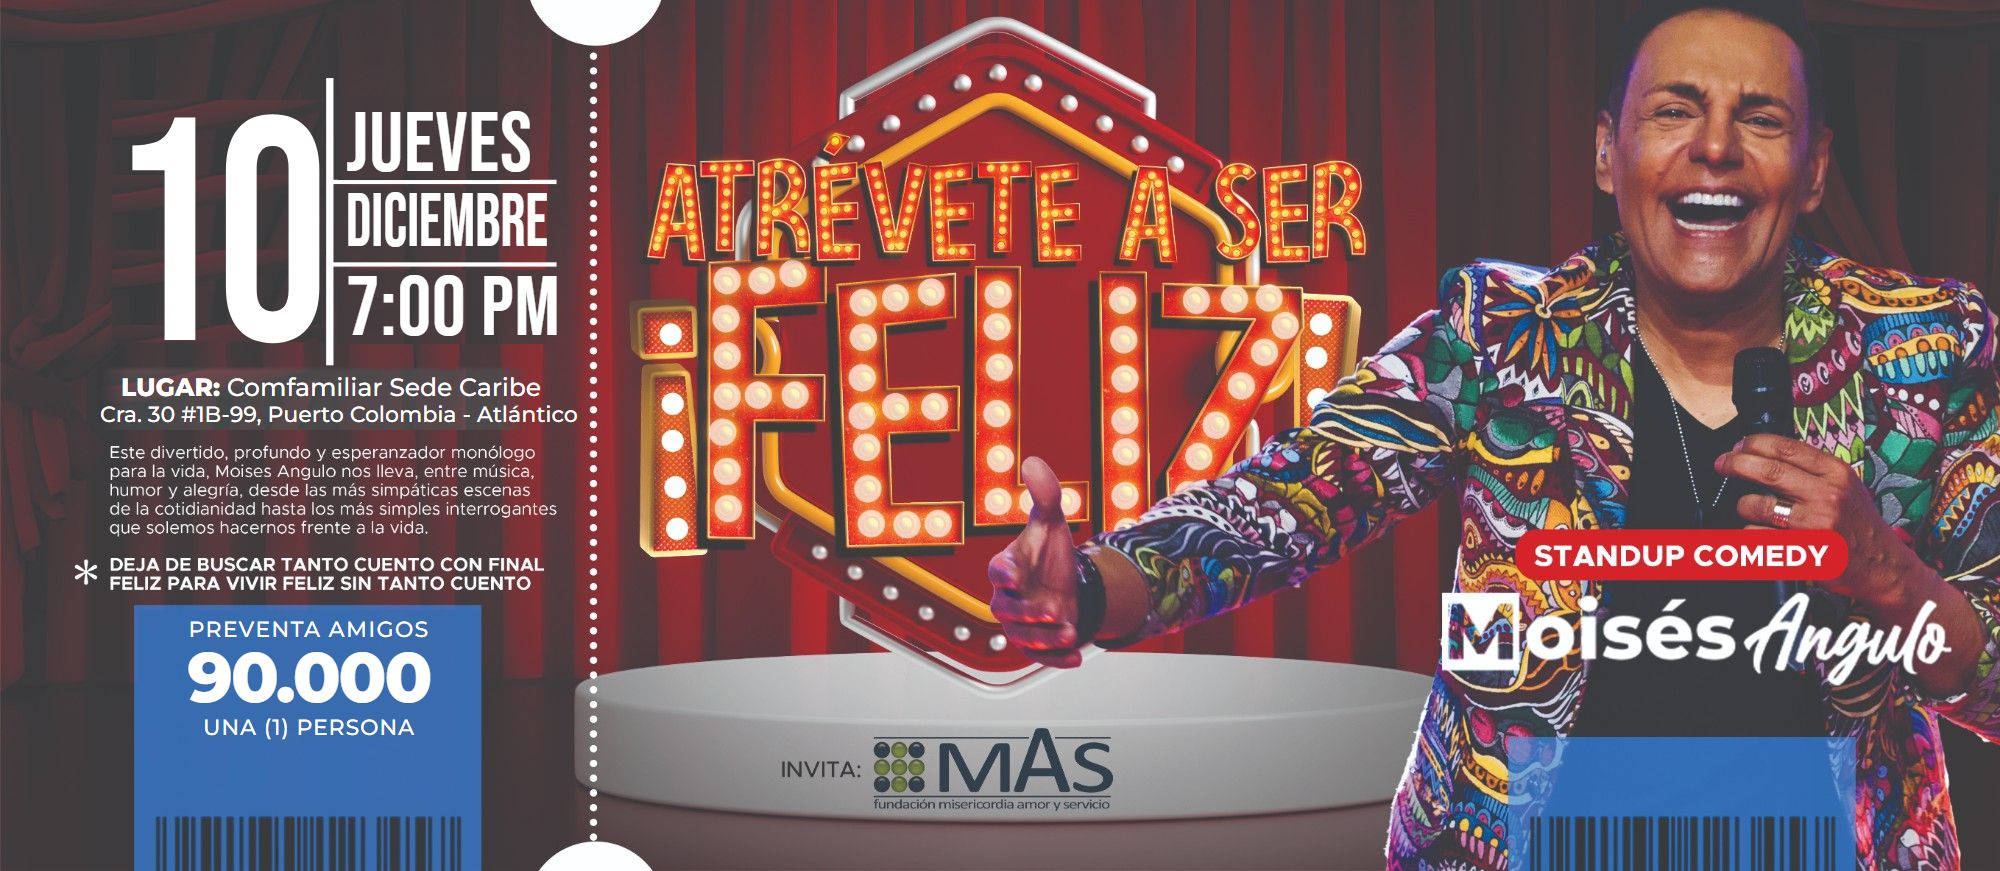
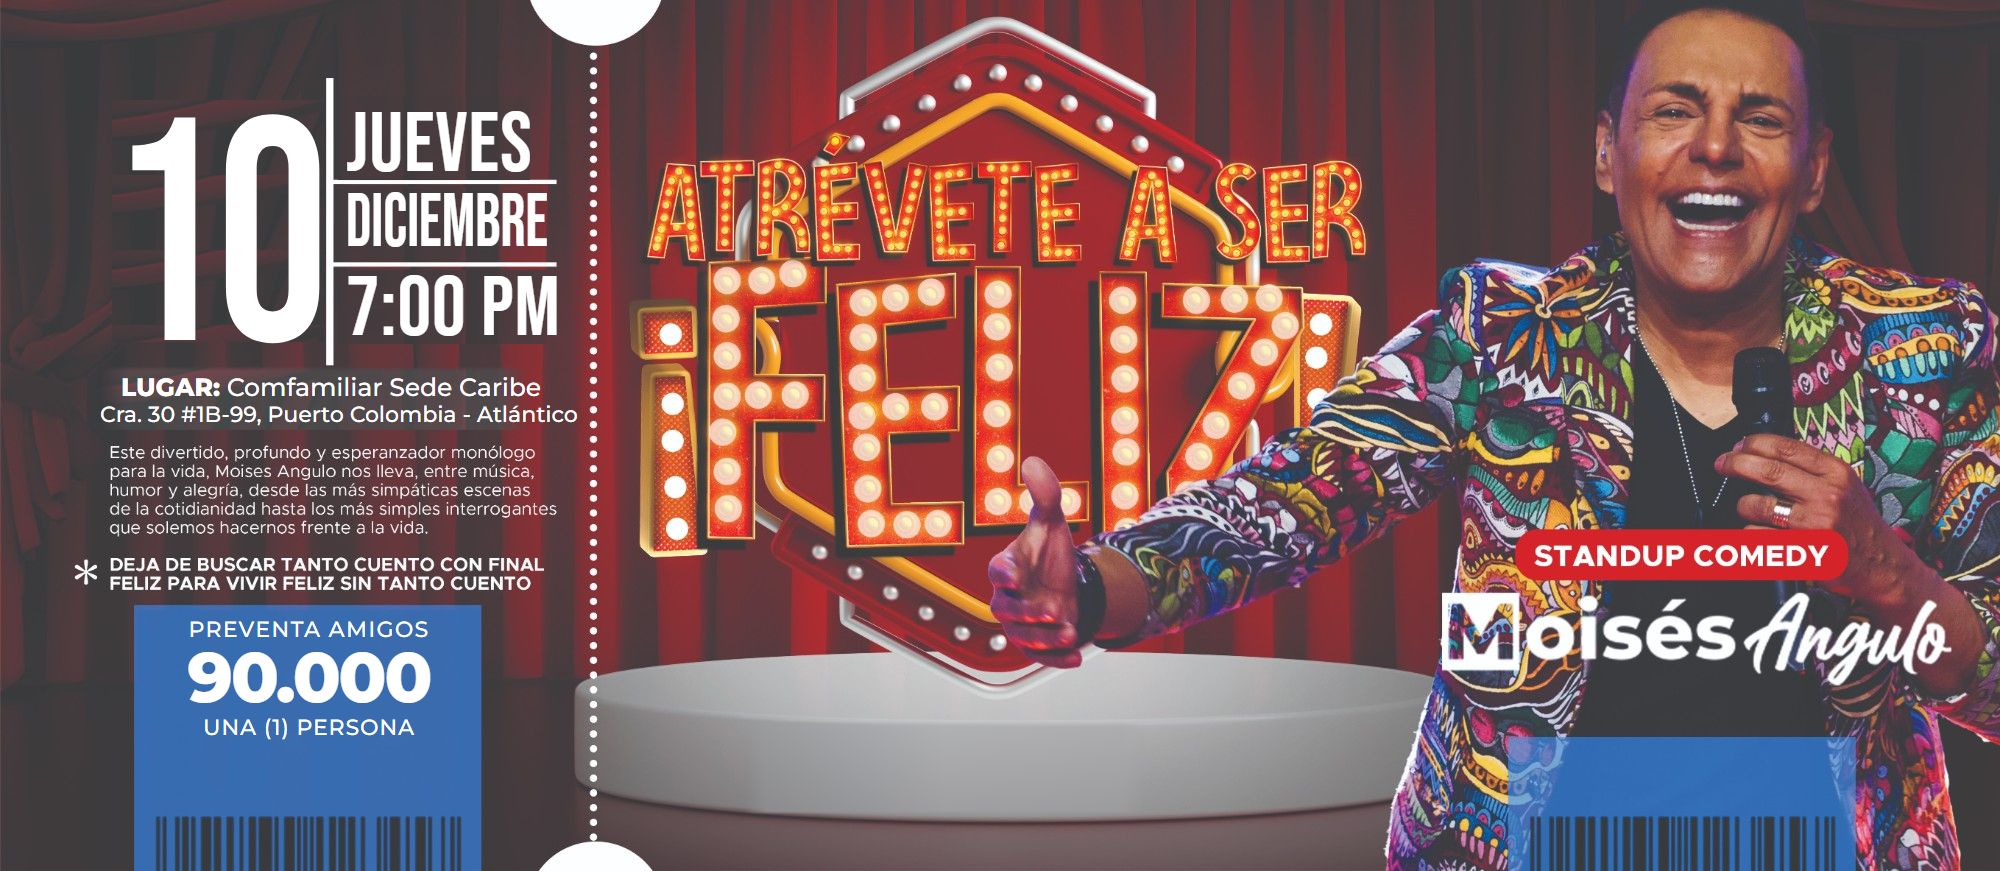
Atrévete: selector de boletas, sin patrocinador y QR en rojo

Changed region(s): [[0.372, 0.837, 0.558, 0.93]]

diff --git a/feliz/index.html b/feliz/index.html
@@ -78,6 +78,20 @@ h1 em{font-style:normal; color:var(--gold); text-shadow:0 0 18px rgba(246,179,58
 .price span small{display:block; font-weight:500; letter-spacing:.04em; opacity:.9}
 .price b{font-weight:800; font-size:32px; letter-spacing:-.02em; white-space:nowrap; font-variant-numeric:tabular-nums}
 .price b small{font-size:14px; font-weight:700}
+.qty{display:flex; justify-content:space-between; align-items:center; gap:14px; padding:0 0 14px}
+.qty-l{font-size:15px; font-weight:800; line-height:1.3}
+.qty-l small{display:block; font-size:12px; font-weight:500; color:var(--card-soft)}
+.stepper{display:flex; align-items:center; border:2px solid var(--card-ink); border-radius:999px; overflow:hidden; flex:none}
+.stepper button{width:48px; height:48px; border:0; background:transparent; color:var(--card-ink); font-size:26px; font-weight:700; cursor:pointer; line-height:1}
+.stepper button:hover{background:#f1e6da}
+.stepper button:disabled{opacity:.3; cursor:not-allowed}
+.stepper button:focus-visible{outline:3px solid var(--gold); outline-offset:-3px}
+.stepper output{min-width:44px; text-align:center; font-family:var(--display); font-size:32px; line-height:1; font-variant-numeric:tabular-nums}
+.total{display:flex; justify-content:space-between; align-items:baseline; margin:0 0 18px; padding:12px 0 0; border-top:2px dashed var(--line); font-size:14px; font-weight:700; text-transform:uppercase; letter-spacing:.06em}
+.total b{font-size:26px; letter-spacing:-.01em; font-variant-numeric:tabular-nums; text-transform:none}
+.lista{display:grid; gap:18px}
+.lista figure{margin:0}
+.lista .btn{margin-top:10px; min-height:50px; font-size:22px}
 .grid{display:grid; grid-template-columns:repeat(2,minmax(0,1fr)); gap:14px}
 .f{display:flex; flex-direction:column; gap:6px; min-width:0}
 .f.full{grid-column:1 / -1}
@@ -107,7 +121,7 @@ input[aria-invalid=true]{border-color:var(--red-hi); background:#fff5f4}
 .trap{position:absolute; left:-9999px; width:1px; height:1px; overflow:hidden}
 .ok{margin:0 0 16px; font-size:16px; line-height:1.45}
 .ok strong{font-weight:800}
-.ticket img{display:block; width:100%; height:auto; border-radius:6px; box-shadow:0 10px 30px -12px rgba(0,0,0,.6); background:#2f6ccf}
+.ticket img{display:block; width:100%; height:auto; border-radius:6px; box-shadow:0 10px 30px -12px rgba(0,0,0,.6); background:#c8161d}
 .ticket .hint{margin:10px 0 0; font-size:13px; color:var(--card-soft); text-align:center}
 
 footer{margin-top:clamp(36px,6vw,64px); padding-top:16px; border-top:1px solid rgba(255,255,255,.18); display:flex; flex-wrap:wrap; justify-content:space-between; gap:8px 20px; font-size:13px; color:var(--muted)}
@@ -139,7 +153,6 @@ footer{margin-top:clamp(36px,6vw,64px); padding-top:16px; border-top:1px solid r
       <ul class="facts">
         <li><span class="k">Horario</span><span class="v">Puertas: 6:00 p. m.<small>Función: 7:00 a 9:00 p. m.</small></span></li>
         <li><span class="k">Lugar</span><span class="v">Comfamiliar Sede Caribe<small>Cra. 30 #1B-99, al lado de la Clínica Porto Azul · Puerto Colombia, Atlántico</small></span></li>
-        <li><span class="k">Invita</span><span class="v">Fundación MAS<small>Misericordia, amor y servicio</small></span></li>
       </ul>
     </section>
 
@@ -151,9 +164,18 @@ footer{margin-top:clamp(36px,6vw,64px); padding-top:16px; border-top:1px solid r
     <aside class="buy" id="registro" aria-live="polite">
       <div id="form-view">
         <h2>Compra tu entrada</h2>
-        <p class="intro">Llena tus datos, paga con Wompi y te llega tu tiquete con el código QR al correo.</p>
-        <div class="price"><span>Preventa amigos<small>Una (1) persona</small></span><b>$90.000 <small>COP</small></b></div>
+        <p class="intro">Elige cuántas boletas quieres, paga con Wompi y te llegan todas al correo, cada una con su propio QR.</p>
+        <div class="price"><span>Preventa amigos<small>Precio por boleta · una (1) persona</small></span><b>$90.000 <small>COP</small></b></div>
         <form id="reg-form" novalidate>
+          <div class="qty">
+            <span class="qty-l" id="qty-l">¿Cuántas boletas?<small>Máximo 10 por compra</small></span>
+            <div class="stepper" role="group" aria-labelledby="qty-l">
+              <button type="button" id="menos" aria-label="Una boleta menos">−</button>
+              <output id="cantidad" aria-live="polite">1</output>
+              <button type="button" id="mas" aria-label="Una boleta más">+</button>
+            </div>
+          </div>
+          <p class="total">Total a pagar <b id="total">$90.000</b></p>
           <div class="grid">
             <div class="f full">
               <label for="nombre">Nombre completo</label>
@@ -197,9 +219,8 @@ footer{margin-top:clamp(36px,6vw,64px); padding-top:16px; border-top:1px solid r
       <div id="ticket-view" class="ticket" hidden>
         <h2 id="t-title" tabindex="-1">¡Nos vemos en la función!</h2>
         <p class="ok" id="t-msg"></p>
-        <img id="t-img" alt="Tu tiquete con el código QR de acceso">
-        <p class="hint">Presenta el QR en la entrada, desde tu celular o impreso.</p>
-        <a class="btn gold" id="t-down" download>Descargar mi tiquete</a>
+        <div class="lista" id="t-lista"></div>
+        <p class="hint">Cada boleta sirve para una persona. Presenta su QR en la entrada, desde el celular o impreso.</p>
         <button class="btn ghost" type="button" id="again">Comprar otra entrada</button>
       </div>
     </aside>
@@ -225,6 +246,18 @@ var EVENTO = 'feliz';
   var boton = document.getElementById('enviar');
   var textoBoton = boton.textContent;
   var aviso = document.getElementById('form-msg');
+  var PRECIO = 90000, MAX = 10, cantidad = 1;
+  var pesos = function(n){ return '$' + n.toLocaleString('es-CO'); };
+  function pintarCantidad(){
+    document.getElementById('cantidad').textContent = cantidad;
+    document.getElementById('total').textContent = pesos(PRECIO * cantidad) + ' COP';
+    document.getElementById('menos').disabled = cantidad <= 1;
+    document.getElementById('mas').disabled = cantidad >= MAX;
+    textoBoton = 'Pagar ' + pesos(PRECIO * cantidad) + ' con Wompi';
+    if (!boton.disabled) boton.textContent = textoBoton;
+  }
+  document.getElementById('menos').addEventListener('click', function(){ if (cantidad > 1) { cantidad--; pintarCantidad(); } });
+  document.getElementById('mas').addEventListener('click', function(){ if (cantidad < MAX) { cantidad++; pintarCantidad(); } });
   var digits = function(v){ return v.replace(/\D/g,''); };
   var rules = {
     nombre: function(v){ return v.trim().split(/\s+/).length >= 2 ? '' : 'Escribe tu nombre y apellido.'; },
@@ -249,7 +282,11 @@ var EVENTO = 'feliz';
   }
   function guardarBorrador(d){ try { sessionStorage.setItem('feliz-borrador', JSON.stringify(d)); } catch (e) {} }
   function leerBorrador(){ try { return JSON.parse(sessionStorage.getItem('feliz-borrador') || 'null'); } catch (e) { return null; } }
-  function rellenar(d){ if (d) ['nombre','cedula','celular','correo'].forEach(function(id){ if (d[id]) document.getElementById(id).value = d[id]; }); }
+  function rellenar(d){
+    if (!d) return;
+    ['nombre','cedula','celular','correo'].forEach(function(id){ if (d[id]) document.getElementById(id).value = d[id]; });
+    if (d.cantidad) { cantidad = Math.min(MAX, Math.max(1, d.cantidad)); pintarCantidad(); }
+  }
   function mostrarEstado(titulo, mensaje, textoBtn){
     document.getElementById('s-title').textContent = titulo;
     document.getElementById('s-msg').textContent = mensaje;
@@ -263,30 +300,31 @@ var EVENTO = 'feliz';
   function cargarImagen(src){
     return new Promise(function(ok, mal){ var i = new Image(); i.onload = function(){ ok(i); }; i.onerror = mal; i.src = src; });
   }
-  function dibujarTiquete(codigo, nombre){
+  function dibujarTiquete(codigo, nombre, etiqueta){
     var fuentes = document.fonts ? Promise.all([document.fonts.load('64px "Bebas Neue"'), document.fonts.load('800 26px Montserrat'), document.fonts.load('500 22px Montserrat')]) : Promise.resolve();
     return Promise.all([cargarImagen('tiquete.jpg'), fuentes]).then(function(res){
       var cv = document.createElement('canvas'); cv.width = 2620; cv.height = 871;
       var g = cv.getContext('2d'), cx = 2310;
       g.drawImage(res[0], 0, 0, 2000, 871);
-      g.fillStyle = '#2f6ccf'; g.fillRect(2000, 0, 620, 871);
+      g.fillStyle = '#c8161d'; g.fillRect(2000, 0, 620, 871);
       g.fillStyle = '#ffffff';
       for (var y = 12; y < 871; y += 22) { g.beginPath(); g.arc(2005, y, 4, 0, Math.PI * 2); g.fill(); }
       g.textAlign = 'center'; g.textBaseline = 'alphabetic';
-      g.font = '64px "Bebas Neue", Impact, sans-serif'; g.fillText('TU ENTRADA', cx, 104);
-      g.fillRect(cx - 200, 136, 400, 400);
+      g.font = '64px "Bebas Neue", Impact, sans-serif'; g.fillText('TU ENTRADA', cx, 92);
+      if (etiqueta) { g.font = '800 24px Montserrat, Arial, sans-serif'; g.fillText(('Boleta ' + etiqueta).toUpperCase(), cx, 128); }
+      g.fillRect(cx - 200, 146, 400, 400);
       var caja = document.createElement('div');
       new QRCode(caja, { text: codigo, width: 360, height: 360, colorDark: '#000000', colorLight: '#ffffff', correctLevel: QRCode.CorrectLevel.M });
       var q = caja.querySelector('canvas');
       g.imageSmoothingEnabled = false;
-      g.drawImage(q, cx - 180, 156, 360, 360);
+      g.drawImage(q, cx - 180, 166, 360, 360);
       g.fillStyle = '#ffffff';
       if ('letterSpacing' in g) g.letterSpacing = '6px';
-      g.font = '62px "Bebas Neue", Impact, sans-serif'; g.fillText(codigo, cx, 610);
+      g.font = '62px "Bebas Neue", Impact, sans-serif'; g.fillText(codigo, cx, 614);
       if ('letterSpacing' in g) g.letterSpacing = '0px';
       var n = (nombre || '').toUpperCase(), t = 28;
       do { g.font = '800 ' + t + 'px Montserrat, Arial, sans-serif'; t--; } while (g.measureText(n).width > 560 && t > 14);
-      g.fillText(n, cx, 662);
+      g.fillText(n, cx, 664);
       g.font = '500 22px Montserrat, Arial, sans-serif'; g.fillText('Una (1) persona', cx, 702);
       g.font = '500 21px Montserrat, Arial, sans-serif';
       g.fillText('Puertas: 6:00 p. m.', cx, 762);
@@ -294,20 +332,30 @@ var EVENTO = 'feliz';
       return cv;
     });
   }
-  function mostrarEntrada(codigo, nombre, mensaje){
-    document.getElementById('t-msg').innerHTML = '';
-    document.getElementById('t-msg').append(mensaje);
+  function mostrarEntrada(boletas, nombre, mensaje){
+    var msg = document.getElementById('t-msg');
+    msg.innerHTML = '';
+    msg.append(mensaje);
+    var lista = document.getElementById('t-lista');
+    lista.innerHTML = '';
     mostrar('entrada');
     document.getElementById('t-title').focus({ preventScroll: true });
-    dibujarTiquete(codigo, nombre).then(function(cv){
-      cv.toBlob(function(b){
-        var url = URL.createObjectURL(b);
-        document.getElementById('t-img').src = url;
-        var a = document.getElementById('t-down');
-        a.href = url; a.download = 'Tiquete ' + codigo + '.png';
-      }, 'image/png');
-    }).catch(function(){
-      document.getElementById('t-down').hidden = true;
+    (boletas || []).forEach(function(b){
+      var fig = document.createElement('figure');
+      var img = document.createElement('img');
+      img.alt = 'Boleta ' + b.boleta + ' con su código QR ' + b.codigo;
+      var a = document.createElement('a');
+      a.className = 'btn gold';
+      a.textContent = boletas.length > 1 ? 'Descargar boleta ' + b.boleta : 'Descargar mi boleta';
+      a.hidden = true;
+      fig.append(img, a);
+      lista.append(fig);
+      dibujarTiquete(b.codigo, nombre, boletas.length > 1 ? b.boleta : '').then(function(cv){
+        cv.toBlob(function(blob){
+          var url = URL.createObjectURL(blob);
+          img.src = url; a.href = url; a.download = 'Boleta ' + b.codigo + '.png'; a.hidden = false;
+        }, 'image/png');
+      });
     });
   }
   function mensajeCorreo(pre, correo, post){
@@ -333,7 +381,7 @@ var EVENTO = 'feliz';
     if (!acepto.checked) { ok = false; first = first || 'acepto'; }
     if (!ok) { document.getElementById(first).focus(); return; }
 
-    var datos = { evento: EVENTO, nombre: v('nombre'), cedula: digits(v('cedula')), celular: v('celular'), correo: v('correo').toLowerCase(), acepto: true, sitio: v('sitio') };
+    var datos = { evento: EVENTO, cantidad: cantidad, nombre: v('nombre'), cedula: digits(v('cedula')), celular: v('celular'), correo: v('correo').toLowerCase(), acepto: true, sitio: v('sitio') };
 
     boton.disabled = true;
     boton.textContent = 'Preparando tu pago…';
@@ -344,7 +392,7 @@ var EVENTO = 'feliz';
         if (r.pagado) {
           boton.disabled = false; boton.textContent = textoBoton;
           document.getElementById('t-title').textContent = 'Ya tienes tu entrada';
-          mostrarEntrada(r.codigo, datos.nombre, mensajeCorreo('Esta cédula ya pagó su entrada. La enviamos a', r.correo, '. Aquí también la puedes descargar.'));
+          mostrarEntrada(r.boletas || [{ codigo: r.codigo, boleta: '1 de 1' }], datos.nombre, mensajeCorreo('Esta cédula ya pagó su entrada. La enviamos a', r.correo, '. Aquí también la puedes descargar.'));
           return;
         }
         guardarBorrador(datos);
@@ -356,6 +404,7 @@ var EVENTO = 'feliz';
       });
   });
 
+  pintarCantidad();
   var q = new URLSearchParams(location.search);
   var idPago = q.get('id'), codigoEntrada = q.get('entrada');
 
@@ -370,10 +419,11 @@ var EVENTO = 'feliz';
         .then(function(r){
           if (r.estado === 'APPROVED') {
             var b = leerBorrador() || {};
+            var varias = (r.boletas || []).length > 1;
             var msg = r.enviado === false
-              ? mensajeCorreo('Tu pago fue aprobado. Tu tiquete llegará en las próximas horas a', r.correo || b.correo || 'tu correo', '.')
-              : mensajeCorreo('Tu pago fue aprobado. Te enviamos tu tiquete a', r.correo || b.correo || 'tu correo', '. Si no lo ves, revisa la carpeta de spam.');
-            mostrarEntrada(r.codigo, r.nombre || b.nombre, msg);
+              ? mensajeCorreo('Tu pago fue aprobado. ' + (varias ? 'Tus boletas llegarán' : 'Tu boleta llegará') + ' en las próximas horas a', r.correo || b.correo || 'tu correo', '.')
+              : mensajeCorreo('Tu pago fue aprobado. Te enviamos ' + (varias ? 'tus ' + r.boletas.length + ' boletas' : 'tu boleta') + ' a', r.correo || b.correo || 'tu correo', '. Si no lo ves, revisa la carpeta de spam.');
+            mostrarEntrada(r.boletas || [{ codigo: r.codigo, boleta: '1 de 1' }], r.nombre || b.nombre, msg);
             try { sessionStorage.removeItem('feliz-borrador'); } catch (e) {}
             return;
           }
@@ -393,8 +443,8 @@ var EVENTO = 'feliz';
       .then(function(res){ return res.json(); })
       .then(function(r){
         if (!r.ok) { mostrarEstado('No encontramos ese tiquete', r.error || 'Revisa el enlace de tu correo.'); return; }
-        document.getElementById('t-title').textContent = 'Tu tiquete';
-        mostrarEntrada(r.codigo, r.nombre, 'Descárgalo y preséntalo en la entrada.');
+        document.getElementById('t-title').textContent = (r.boletas || []).length > 1 ? 'Tus boletas' : 'Tu boleta';
+        mostrarEntrada(r.boletas || [{ codigo: r.codigo, boleta: '1 de 1' }], r.nombre, 'Descárgalas y preséntalas en la entrada.');
       })
       .catch(function(){ mostrarEstado('No pudimos cargar tu tiquete', 'Revisa tu conexión e inténtalo de nuevo. El QR también está en tu correo.'); });
   }
@@ -407,7 +457,8 @@ var EVENTO = 'feliz';
   document.getElementById('again').addEventListener('click', function(){
     form.reset();
     aviso.textContent = '';
-    boton.disabled = false; boton.textContent = textoBoton;
+    boton.disabled = false;
+    cantidad = 1; pintarCantidad();
     Object.keys(rules).forEach(function(id){ document.getElementById(id).removeAttribute('aria-invalid'); document.getElementById(id + '-err').textContent = ''; });
     mostrar('form');
     document.getElementById('nombre').focus();
